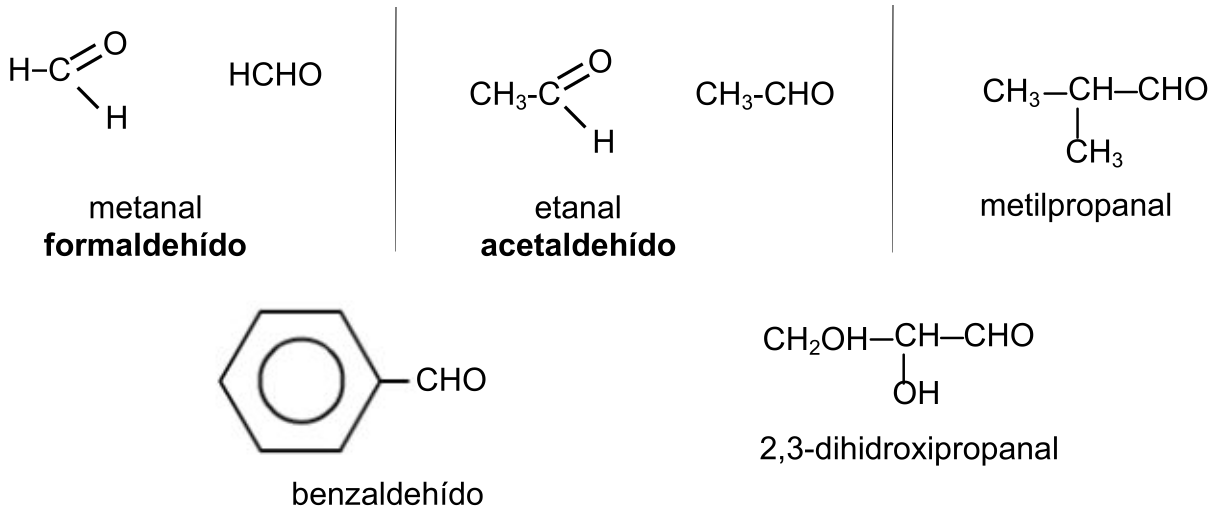
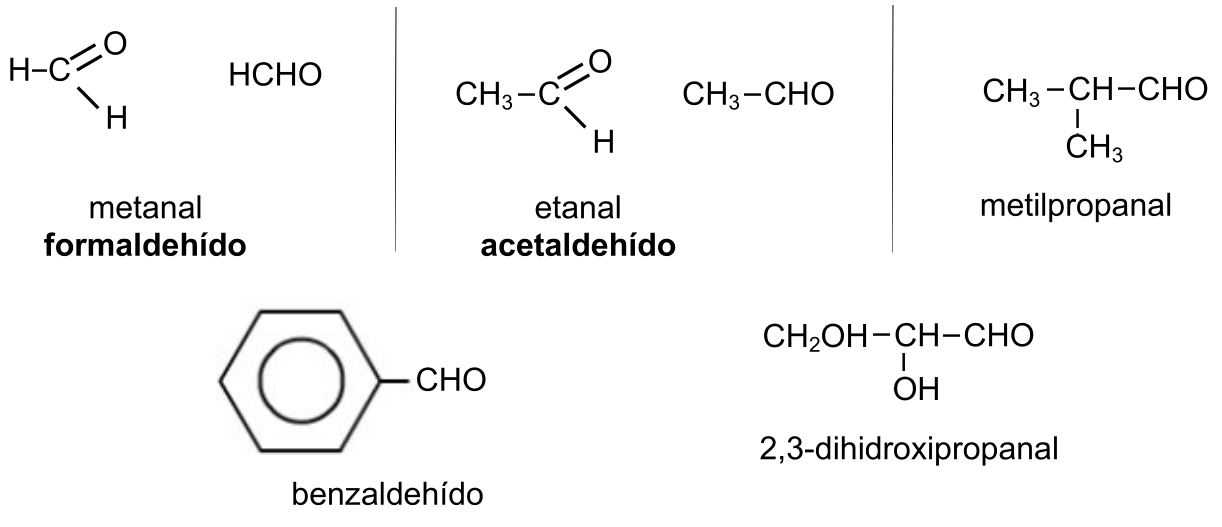
1

diff --git a/docs/imagenes/genera_imagenes/moleculas.tex b/docs/imagenes/genera_imagenes/moleculas.tex
@@ -107,9 +107,24 @@
 \chemfig{[,0.6] CH_2(-[2]OH)-CH_3-CH(-[2]OH)-CH_3} 
 \end{preview}
 
-\svgname{aldehido}
+\svgname{carbonilo}
 \begin{preview}
 \chemfig{[,0.6] R - C (=[2]O)- H} 
+\end{preview}
+
+\svgname{carboxilico}
+\begin{preview}
+\chemfig{[,0.6] R - C (=[2]O)- OH} 
+\end{preview}
+
+\svgname{ester}
+\begin{preview}
+\chemfig{[,0.6] R - C (=[2]O)- OR'} 
+\end{preview}
+
+\svgname{amina}
+\begin{preview}
+\chemfig{[,0.6] R - N (=[2]H)- H} 
 \end{preview}
 
 \end{document}

diff --git a/docs/tema2-carbono.md b/docs/tema2-carbono.md
@@ -286,15 +286,15 @@ Ejemplos:
 
 ![...](imagenes/tema02/eter_ejemplo.png){ style="display: block; margin: 0 auto; width: 85%; height: auto;" }
 
-### **Grupo funcional: - CO - (carbonilo)**
+### **Grupo funcional: - CO - (carbonilo) Aldehídos y cetonas** {: .caja-subtitulo}
 
 El grupo carbonilo consta de un oxígeno unido mediante un doble enlace al carbono. Puede estar situado en un carbono primario o en uno secundario
 
-![...](imagenes/tema02/carbonilo.png){ style="display: block; margin: 0 auto; width: 50%; height: auto;" }
+![...](imagenes/tema02/tipo_carbonilo.png){ style="display: block; margin: 0 auto; width: 50%; height: auto;" }
 
 ### **4.3 Aldehídos (-al)** {: .caja-subtitulo}
 
-En los aldehídos el grupo carbonilo se encuentra en un carbono primario: ![aldehído](imagenes/tema02/aldehido.svg){ style="display: inline-block; vertical-align: bottom; width: 10%; height: auto;" }
+En los aldehídos el grupo carbonilo se encuentra en un carbono primario: ![aldehído](imagenes/tema02/carbonilo.svg){ style="display: inline-block; vertical-align: bottom; width: 10%; height: auto;" }
 
 ### **Nomenclatura** {: .caja-subtitulo2}
 
@@ -306,103 +306,56 @@ Ejemplos:
 
 ### **4.4 Cetonas (-ona)** {: .caja-subtitulo}
 
-En las cetonas el grupo carbonilo se encuentra en un carbono secundario:
-R- C -R'
+En las cetonas el grupo carbonilo se encuentra en un carbono secundario: $\ce{\quad R - CO - R'}$
 
 ### **Nomenclatura** {: .caja-subtitulo2}
 
-La cadena se numera de tal forma que el grupo carbonilo tenga el número más bajo posible.
+La cadena se numera de tal forma que el grupo **carbonilo** tenga el **número más bajo** posible.
 
 Se nombran cambiando la terminación del hidrocarburo por -**ona**.
 
 Ejemplos:
 
-![...](imagenes/tema02/cetona_ejemplo.png){ style="display: block; margin: 0 auto; width: 85%; height: auto;" }
+![...](imagenes/tema02/cetona_ejemplo.png){ style="display: block; margin: 0 auto; width: 90%; height: auto;" }
 
 ### **4.5 Ácidos Carboxílicos (-oico)** {: .caja-subtitulo}
 
-Grupo carboxílico (-COOH)
+Grupo funcional: $\quad$ ![carboxilo](imagenes/tema02/carboxilico.svg){ style="display: inline-block; vertical-align: bottom; width: 13%; height: auto;" }
 
-- Se nombran anteponiendo la palabra ácido al nombre del hidrocarburo del que proceden con la terminación -oico. Si hay dos -COOH-, se añade -dioico.
+La función **ácido** se caracteriza por la relativa facilidad con la que el hidrógeno del grupo carboxilo (hidrógeno ácido) puede ser sustituido por metales para formar sales o por radicales de alquilo para formar ésteres.
 
-- Orden numeración: solo pueden ser terminales. Se empieza a numerar por el extremo donde está el -COOH-. No localizador.
+### **Nomenclatura** {: .caja-subtitulo2}
 
-| Fórmula | Nombre | Observaciones |
-|---|---|---|
-| H-COOH | Ácido metanoico (Ácido fórmico) | En la escritura de los ácidos el grupo funcional se acostumbra a escribirlo abreviadamente como -COOH, aunque se sobreentiende que lleva un doble enlace C=O. El nombre ácido fórmico es un nombre común aceptado. |
-| CH3-CH2-COOH | Ácido propanoico (Ácido propiónico) | El localizador 1 del grupo -COOH no se indica, pues siempre va en un extremo. El nombre de ácido propanoico es un nombre común aceptado. |
-| CH3-CH(CH3)-COOH | Ácido metilpropanoico (Ácido isobutírico) | No es necesario indicar el localizador 2 del sustituyente (metil), ya que no ofrece duda al no poder ir en otro lugar. |
-| CH3-CH=CH-COOH | Ácido but-2-enoico (Ácido 2-butenoico) | No es necesario indicar el localizador 2 del doble enlace, pues no puede ir en otro lugar. |
-| CH3-CH≡C-COOH | Ácido but-2-inoico (Ácido 2-butinoico) | No es necesario indicar el localizador 2 del triple enlace, pues no puede ir en otro lugar. |
-| HOOC-COOH | Ácido etanodioico (Ácido oxálico) | El sufijo -dioico indica que hay dos grupos carboxilo. |
-| C₆H₅-COOH | Ácido benzoico | El nombre ácido benzoico es un nombre común pero es el que más se utiliza. |
+Los ácidos tienen preferencia sobre todas las funciones orgánicas por lo que la cadena se empieza a numerar por el extremo en que se encuentra el grupo carboxilo.
+
+Se nombran con la palabra **ácido** y cambiando la terminación del hidrocarburo por -**oico**.
+
+Ejemplos:
+
+![...](imagenes/tema02/acido_ejemplo.png){ style="display: block; margin: 0 auto; width: 85%; height: auto;" }
 
 ### **4.6 Ésteres -oato** {: .caja-subtitulo}
 
-Grupo carboxilo (-COOH) sustituido por un radical (-COOR')
+Grupo funcional:  $\quad$ ![ester](imagenes/tema02/ester.svg){ style="display: inline-block; vertical-align: bottom; width: 13%; height: auto;" }
 
-Se obtiene en la reacción de esterificación.
+Los ésteres resultan al sustituir el hidrógeno ácido de los ácidos por un radical de alquilo.
 
-- Se nombran como el ácido del que proceden, eliminando la palabra ácido, cambiando la terminación -ico del ácido por -ato, seguido de la preposición de y el nombre del radical terminado por -ilo.
+### **Nomenclatura** {: .caja-subtitulo2}
 
-- Sustituyente (-COOR-): prefijo alcoxicarbonil-. Prioritarios ante: ácidos carboxílicos.
+Se nombran cambiando la terminación **ico** del ácido por **ato**, seguido del nombre del radical que sustituye al átomo de hidrógeno.
 
-| Fórmula | Nombre | Observaciones |
-|---|---|---|
-| H-COO-CH2-CH3 | Metanoato de propilo (Formiato de propilo) | Este éster deriva del ácido metanoico (fórmico). El radical está escrito a continuación del grupo -COOR. |
-| CH3-CH(CH3)-CH2-COO-CH2-CH3 | 3-Metilbutanoato de etilo | En la numeración tiene preferencia el grupo -COOR al que le corresponde el localizador 1, pero no hace falta indicarlo. |
-| HCOO-CH2-CH2-CH2-COO-CH3 | Pent-4-inoato de metilo (4-Pentinoato de metilo) | Al grupo -COOR le corresponde el localizador 1, ya que tiene preferencia sobre instauraciones. |
-| C₆H₅-COO-CH3 | Benzoato de metilo | Deriva del ácido benzoico C₆H₅-COOH. En el que se ha sustituido el hidrógeno por un grupo metilo. |
-| CH3-COO-C₆H₅ | Etanoato de fenilo (Acetato de fenilo) | El radical fenilo -C₆H₅ ha sustituido al hidrógeno del grupo -COOH del ácido etanoico (ácido acético). |
+Ejemplos:
+
+![...](imagenes/tema02/ester_ejemplo.png){ style="display: block; margin: 0 auto; width: 85%; height: auto;" }
 
 ### **4.7 Aminas** {: .caja-subtitulo}
 
-Derivados del amoniaco (NH₃) por sustitución de uno, dos o tres H por radicales.
+Grupo funcional: $\quad$ ![ester](imagenes/tema02/amina.svg){ style="display: inline-block; vertical-align: bottom; width: 13%; height: auto;" }
 
-**NOMENCLATURA FUNCIONAL**
+Las aminas pueden considerarse como derivados de los hidrocarburos al sustituir un átomo de hidrógeno por el grupo –NH2 (amino). También pueden considerarse derivados del amoniaco (NH3) al sustituir sus hidrógenos por radicales de alquilo.
 
-Se nombran en orden alfabético los radicales seguidos de la palabra amina sin espacio entre ellos. Si los radicales son idénticos se simplifican anteponiendo el prefijo di- o tri-.
+Según el número de hidrógenos sustituidos podemos tener aminas primarias, secundarias o terciarias:
 
-### 4.7.1 Aminas Primarias
+![...](imagenes/tema02/tipo_amina.png){ style="display: block; margin: 0 auto; width: 80%; height: auto;" }
 
-**NOMENCLATURA SUSTITUTIVA**
-
-Se nombran añadiendo -amina al nombre del hidrocarburo que ha sustituido al hidrógeno del amoniaco, anteponiendo el localizador.
-
-- Orden de numeración: grupo -NH₂ tiene preferencia sobre las instauraciones. Se numera la cadena de modo que el grupo -NH₂ le corresponda el localizador más bajo.
-
-- Sustituyente (-NH₂): Prefijo amino-. Son prioritarios frente a las aminas: ácidos carboxílicos, ésteres, aldehídos y cetonas.
-
-| Fórmula | Nombre de sustitución | Nombre funcional | Observaciones |
-|---|---|---|---|
-| CH2=CH-NH₂ | Etenamina | Vinilamina Etenamina | El radical CH2=CH- se puede nombrar como etenil o vinil. |
-| CH2=CH-CH2-NH₂ | Prop-2-en-1-amina (2-Propen-1-amina) | Alilamina | Se le asigna el localizador más bajo. |
-| C₆H₅-NH₂ | Bencenamina | Fenilamina (Anilina) | Anilina es nombre común. |
-| NH₂-CH2-CH(NH₂)-CH2-CH3 | Butano-1,2-diamina (1,2-Butanodiamina) | | En los casos que haya dos o más grupos amino -NH₂, se utiliza la nomenclatura de sustitución. |
-| NH₂-CH2-CH=CH-CH2-CH3 | Pent-3-en-1-amina (3-Penten-1-amina) | 3-Pentenamina | La amina tiene preferencia sobre el doble enlace. El carbono 1 es el que está unido al nitrógeno. La nomenclatura de sustitución es la más utilizada para estos casos. |
-
-### 4.7.2 Aminas Secundarias y Terciarias
-
-**NOMENCLATURA SUSTITUTIVA**
-
-Se nombran como derivados N-sustituidos de una amina primaria, a la que le corresponde el radical R de mayor prioridad.
-
-- Orden de numeración: El nitrógeno no se numera en la cadena. Los radicales se nombran independientemente desde el carbono unido al nitrógeno. Para indicar que un radical se une al nitrógeno, se utiliza como localizador la letra N escrita en cursiva.
-
-| Fórmula | Nombre | Observaciones |
-|---|---|---|
-| CH3-NH-CH3 | Dimetilamina | Se puede escribir sin indicar los enlaces simples: (CH3)₂NH. El radical se escribe entre paréntesis con el subíndice 2. En las aminas secundarias hay que sustituir 2 hidrógenos del amonio y por lo tanto queda -NH- unido a los dos radicales y no -NH₂. |
-| CH3-CH2-NH-CH2-CH3 | Dietilamina | El nombre se escribe sin espacios. Se puede escribir sin indicar los enlaces: (CH3CH2)₂NH. |
-| CH3-N(CH3)-CH3 | Trimetilamina | También se puede escribir: (CH3)₃N. |
-| CH3-CH2-N(CH2-CH3)-CH2-CH3 | Trietilamina | También se puede escribir: (CH3CH2)₃N. |
-| C₆H₅-NH-C₆H₅ | Difenilamina | El radical derivado del benceno es el fenil- y se puede escribir como C₆H₅- o bien utilizar el anillo bencénico. |
-
-| Fórmula | Nombre | Observaciones |
-|---|---|---|
-| CH3-CH2-NH-CH2-CH2-CH3 | N-Etilpropan-1-amina N-Etilpropilamina (Etil)propilamina | La cadena principal es el radical de 3 átomos de carbono. Obsérvese el uso de los paréntesis para indicar claramente cuáles son los sustituyentes de N. |
-| CH3-NH-CH2-CH2-CH3 | N-Metilpropan-1-amina N-Metilpropilamina (Metil)propilamina | La cadena principal es el radical de 3 átomos de carbono. |
-| CH3-NH-CH=CH2 | N-Metiletenamina N-Metilvinilamina Metil(vinil)amina | La cadena principal es el radical de 2 átomos de carbono. El radical es un metilo frecuentemente como un radical. |
-| CH3-CH2-CH2-CH2-NH-CH(CH3)₂ | N-Isopropilbutan-1-amina (Butil)isopropilamina | La cadena principal es el radical de 4 átomos de carbono. En la función, los radicales se nombran en orden alfabético. |
-| CH3-N(CH3)-CH2-CH2-CH3 | N,N-Dimetilpropan-1-amina N,N-Dimetilpropilamina (Dimetil)propilamina | La cadena principal es el radical de 3 átomos de carbono. Se usa el localizador N- para indicar que los dos radicales metilos van unidos al átomo de nitrógeno. |
-| CH3-CH2-CH2-CH2-N(CH3)-CH2-CH3 | N-Etil-N-metilbutan-1-amina N-Etil-N-metilbutilamina Butil(etil)metilamina | En la nomenclatura funcional, los radicales se nombran en orden alfabético. La cadena principal es el benceno. En la función, los radicales se nombran en orden alfabético. Anilina es el nombre común de la fenilamina. |
 
